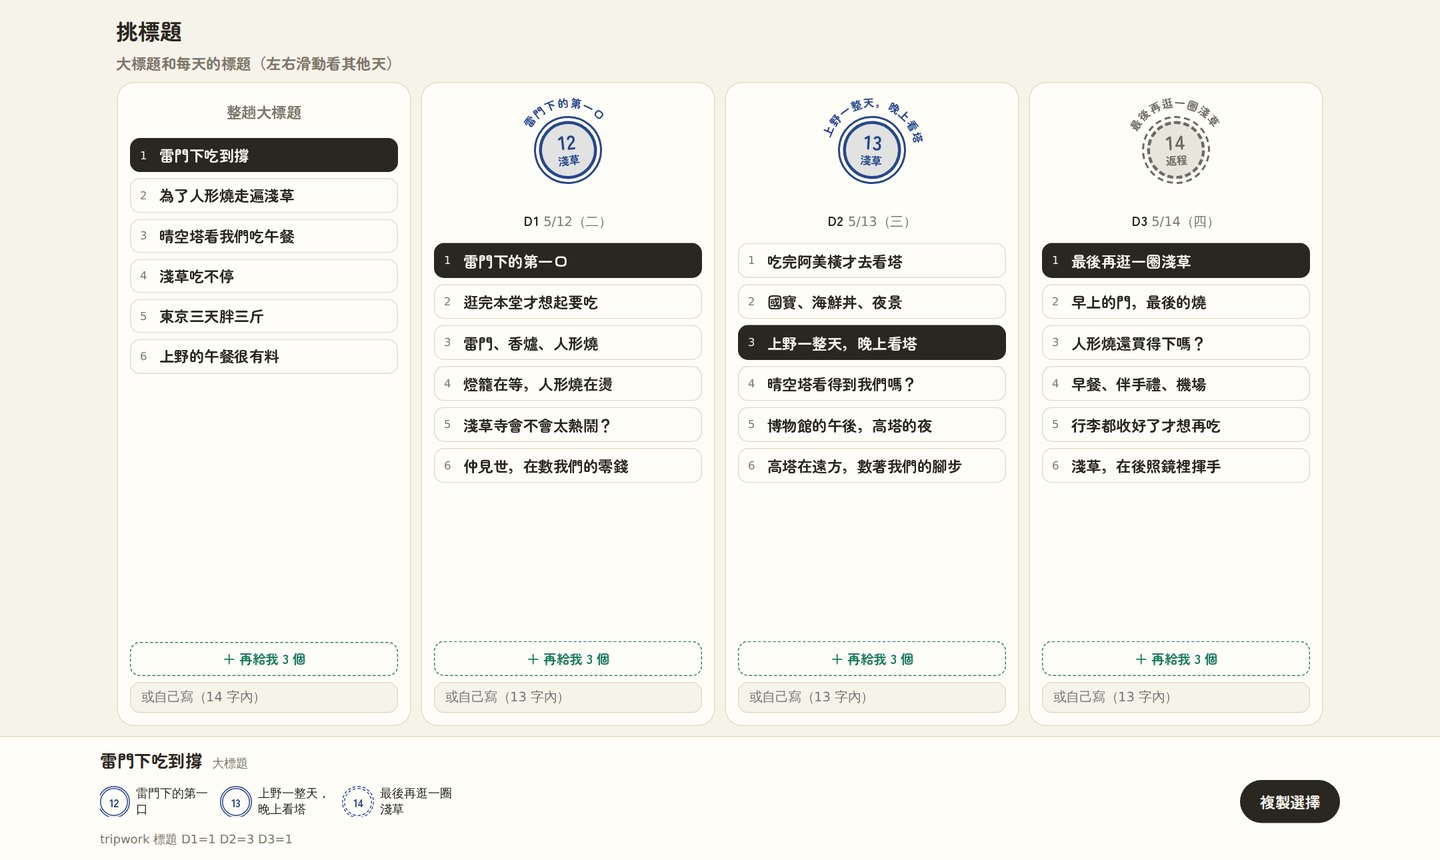
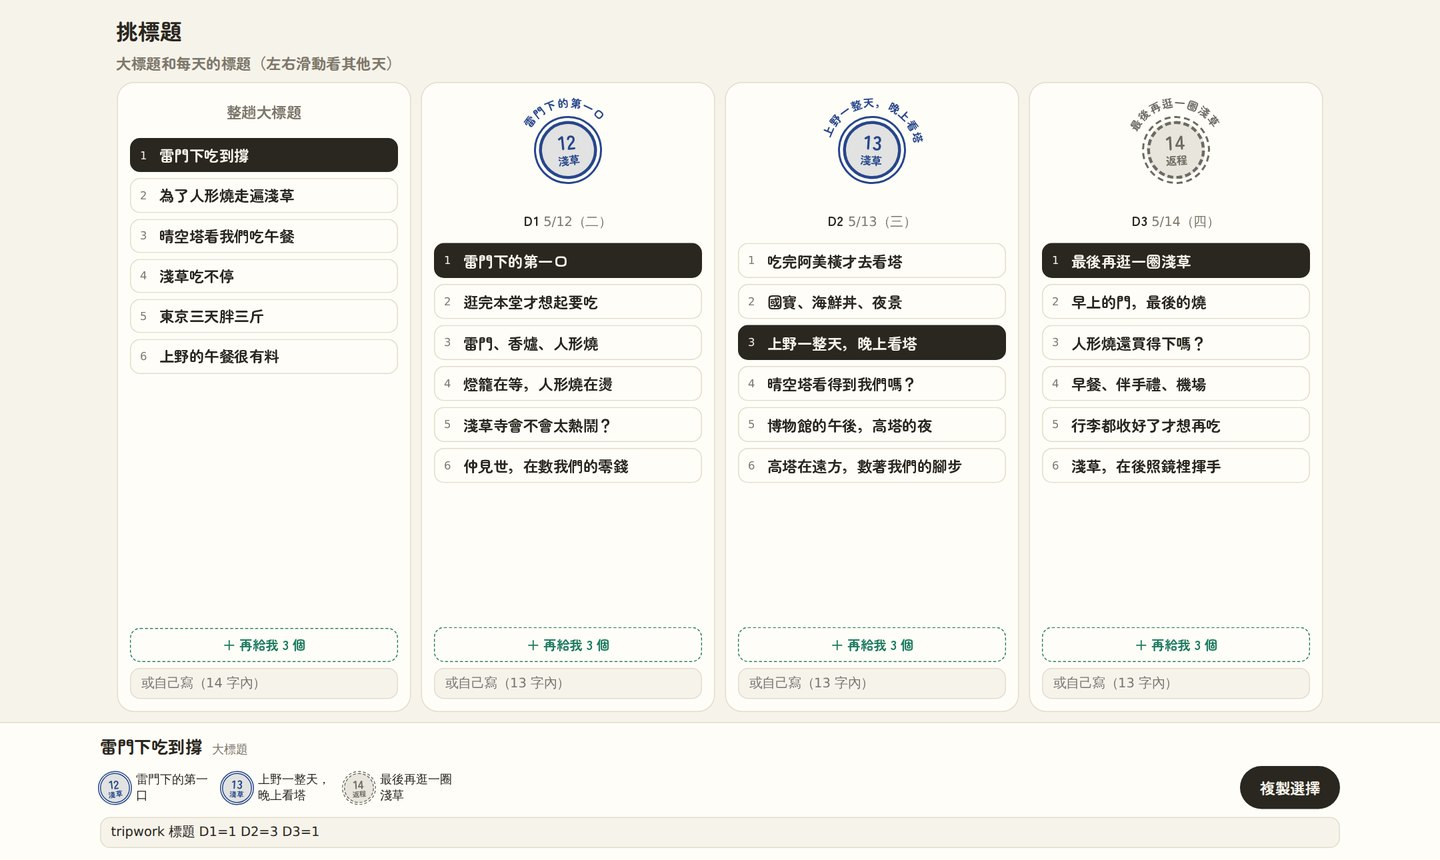
release(v1.2.1): fixes from the first shared trip
- CHANGELOG 1.2.1; 8 manifests -> 1.2.1 (bump_version.py; --audit clean,
  tests_browser/ joins tests/ in audit.exclude: test comments name the
  version).
- README: the picker sentences add the phone preview's long-press copy;
  desktop-picker.jpg re-taken (demo_trip.py; the bar's stamps and the
  reply line). Other shots unchanged (their re-take differed only by
  re-fetched tiles / photos, so they were kept).

Runs: unit 1752 passed; tests_browser 481 passed (Chromium + WebKit).

Claude-Session: https://claude.ai/code/session_01LvJwxNEZHJVpvnBGxPFftV

diff --git a/CHANGELOG.md b/CHANGELOG.md
@@ -1,5 +1,44 @@
 # Changelog
 
+## 1.2.1 — fixes from the first shared trip
+
+### Fixed
+
+- **The title picker works in a phone preview.** The iPhone and Android Claude app preview
+  runs no script, so every day looked picked while the button stayed at 「還差 N 天」 and
+  nothing could be copied. The reply line now follows your picks without a script and is
+  real text: long-press it to select the whole line, copy, paste it back (a day not picked
+  yet reads `D3=?`). In a browser the 複製選擇 button works as before, and the line is
+  selected after a copy in case the copy was blocked. The page no longer explains scripts.
+- **The picker's small stamps are the reader's stamps.** They now show the place name, the
+  day's tilt and the day's colour (a 返程 day is grey and dashed again), and the bar no
+  longer cuts their outer ring.
+- **The 住宿 / 入境規定 / 行前清單 cards keep their side lines.** The scrolling area cut the
+  left and right lines off, leaving only the corners, on the phone and on the desktop.
+- **A swipe from the screen edge is the phone's own back gesture.** On the shared page a
+  back swipe from the left edge also slid the sub-page, so the pages showed stacked and went
+  back twice. Swipes that start at either screen edge are left to the phone.
+- **Lookups stay in the trip's country.** When a place is not found by its name and
+  district, the fallback searches searched the whole world and could land on a namesake
+  abroad; they now stay in the destination country.
+- **A district's centre is the district.** It could land on a school or office named after
+  the district; districts are now looked up as places, and only a result that is the
+  district itself counts.
+- **A pun may swap a character for one that sounds the same.** A title that riffs on a
+  phrase with homophones (沖沖沖 for 衝衝衝) was rejected as "not reworked".
+
+### Changed (for agents)
+
+- `inter-stop-legs` and `itinerary-synthesis` say that `classify_leg` returns
+  `(status, reason)`: write `status` into the leg.
+
+### Migration
+
+- None. District centres cached by an earlier run are looked up again once (they have a
+  key of their own now). Re-run the title picker to get the new page.
+
+Tests: 1752 passed (the corpus ships with the repo, so CI runs the same count); `tests_browser`: 481 passed (headless Chromium and WebKit).
+
 ## 1.2.0 — publish build for family, photos from Wikidata, phone gestures
 
 ### Added

diff --git a/README.md b/README.md
@@ -60,7 +60,7 @@ claude plugin install tripwork
 **3. 回答它的問題，挑標題**
 
 它會反問還缺的資訊（日期、住哪、必去的點、預算、同行的人），照實回答就好；查證、分區、排程、輸出都由它完成。
-最後它會給你幾個搞笑的行程標題、每天 6 句小標題，打開「挑標題」網頁一次挑完，按「複製選擇」貼回對話。
+最後它會給你幾個搞笑的行程標題、每天 6 句小標題，打開「挑標題」網頁一次挑完，按「複製選擇」貼回對話（在手機的預覽裡，長按最下面那行複製）。
 
 <p align="center"><img src="docs/images/readme/desktop-picker.jpg" width="820" alt="挑標題網頁（電腦）：大標題和每天的 6 句標題，一次挑完"></p>
 
@@ -163,7 +163,7 @@ claude plugin marketplace update tripwork && claude plugin install tripwork
 <summary>完整清單</summary>
 
 - 行程的**搞笑標題**：先給你六個不同路數的候選 → 你挑一個或自己寫
-- **每天的標題**：每天給你 6 句（押韻的旁邊標注音韻腳，例如「ㄝ韻」），打開「挑標題」網頁一次挑完、按「複製選擇」貼回對話（大標題也能在這裡再換一次）；不想用網頁也能直接回號碼，例如 `D1=3 D2=1`。都不喜歡就按「再給我 3 個」，或自己寫
+- **每天的標題**：每天給你 6 句（押韻的旁邊標注音韻腳，例如「ㄝ韻」），打開「挑標題」網頁一次挑完、按「複製選擇」貼回對話（手機預覽裡長按最下面那行複製；大標題也能在這裡再換一次）；不想用網頁也能直接回號碼，例如 `D1=3 D2=1`。都不喜歡就按「再給我 3 個」，或自己寫
 - 不同來源對同一個點**講法矛盾**（評分／營業時間／地址不一致）→ 問你信哪個
 - 某個跨區移動**太遠**（超過你設定的上限，預設 60 分）→ 問你要保留還是換點
 - 某個跨區移動的**預估時間不合理**（比實際距離所需的最短時間還短，例如硬說走路 10 分鐘能到 10 公里外）→ 停下來要你補一個真的來源（路線引擎查詢或時刻表），不會自己把猜測的數字往上調就蒙混過關
